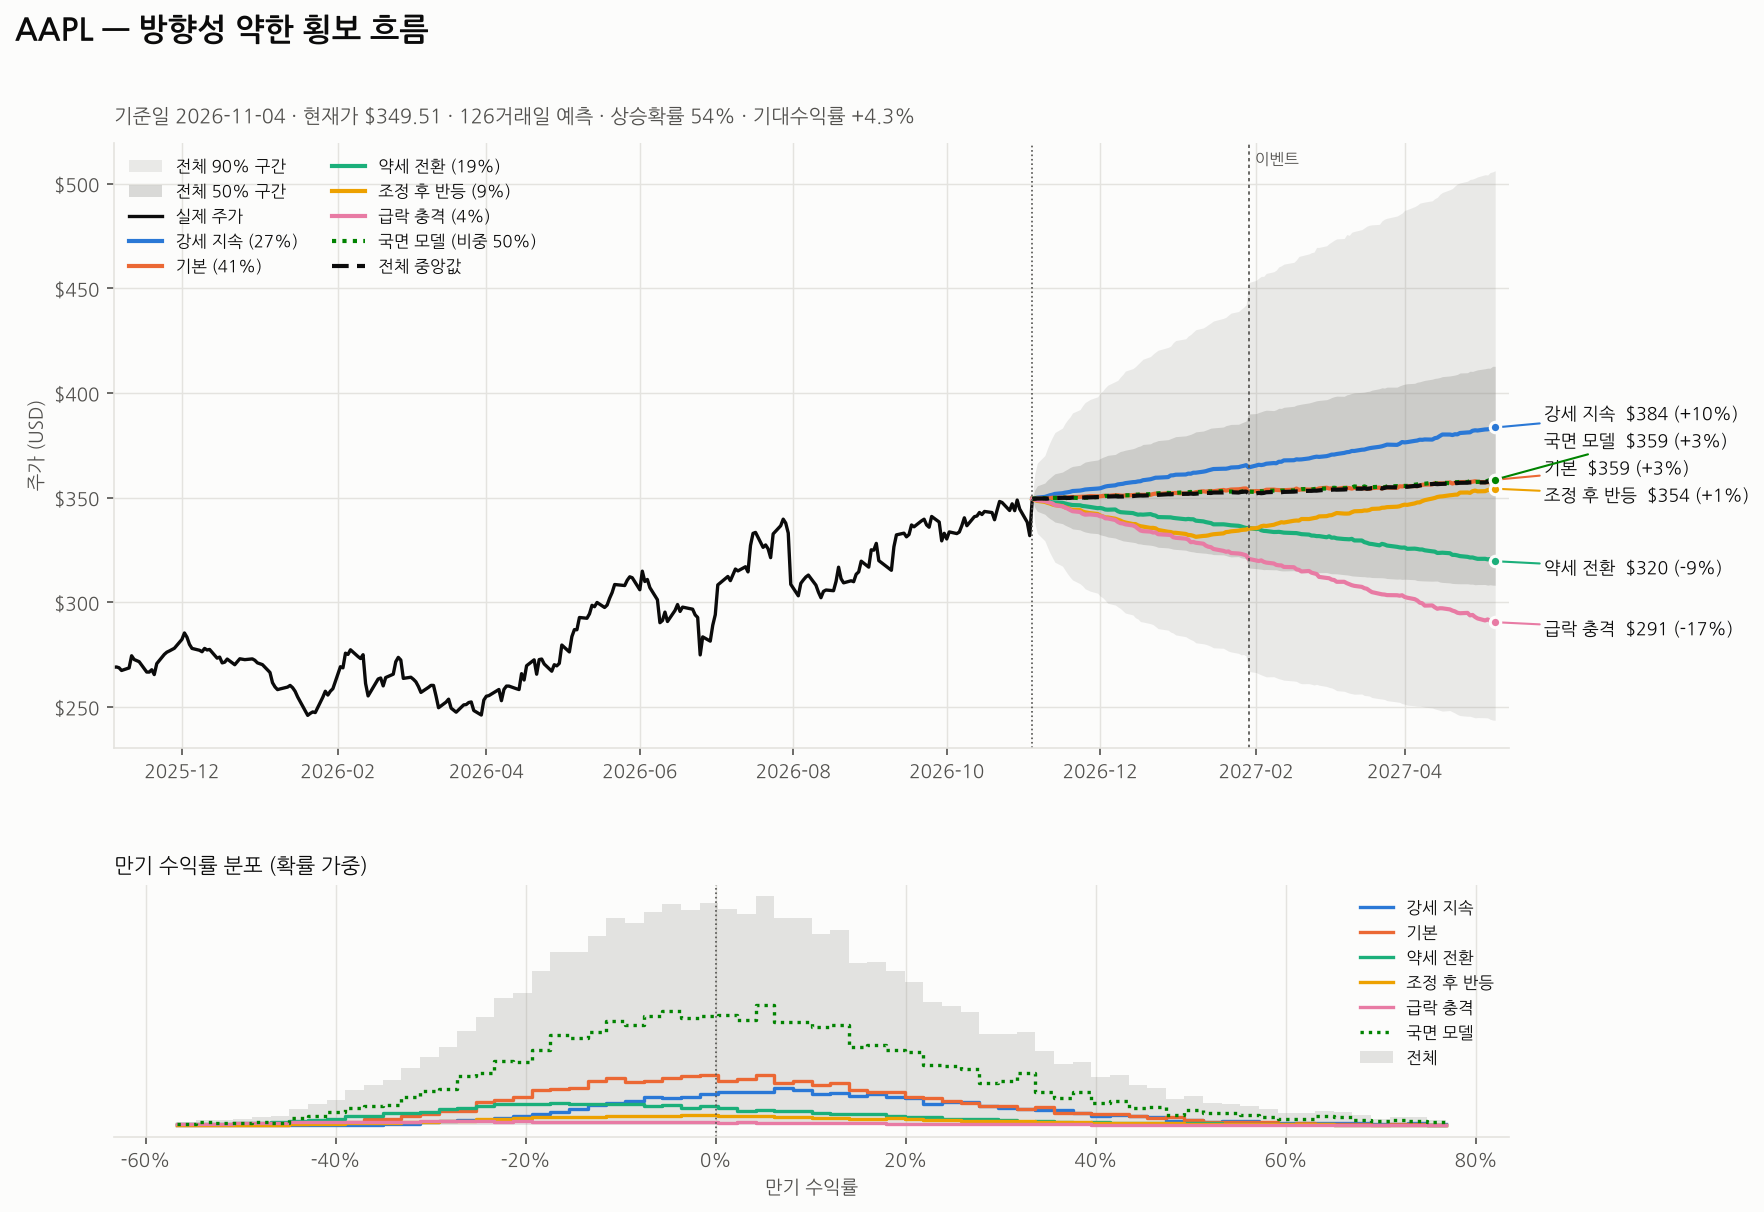
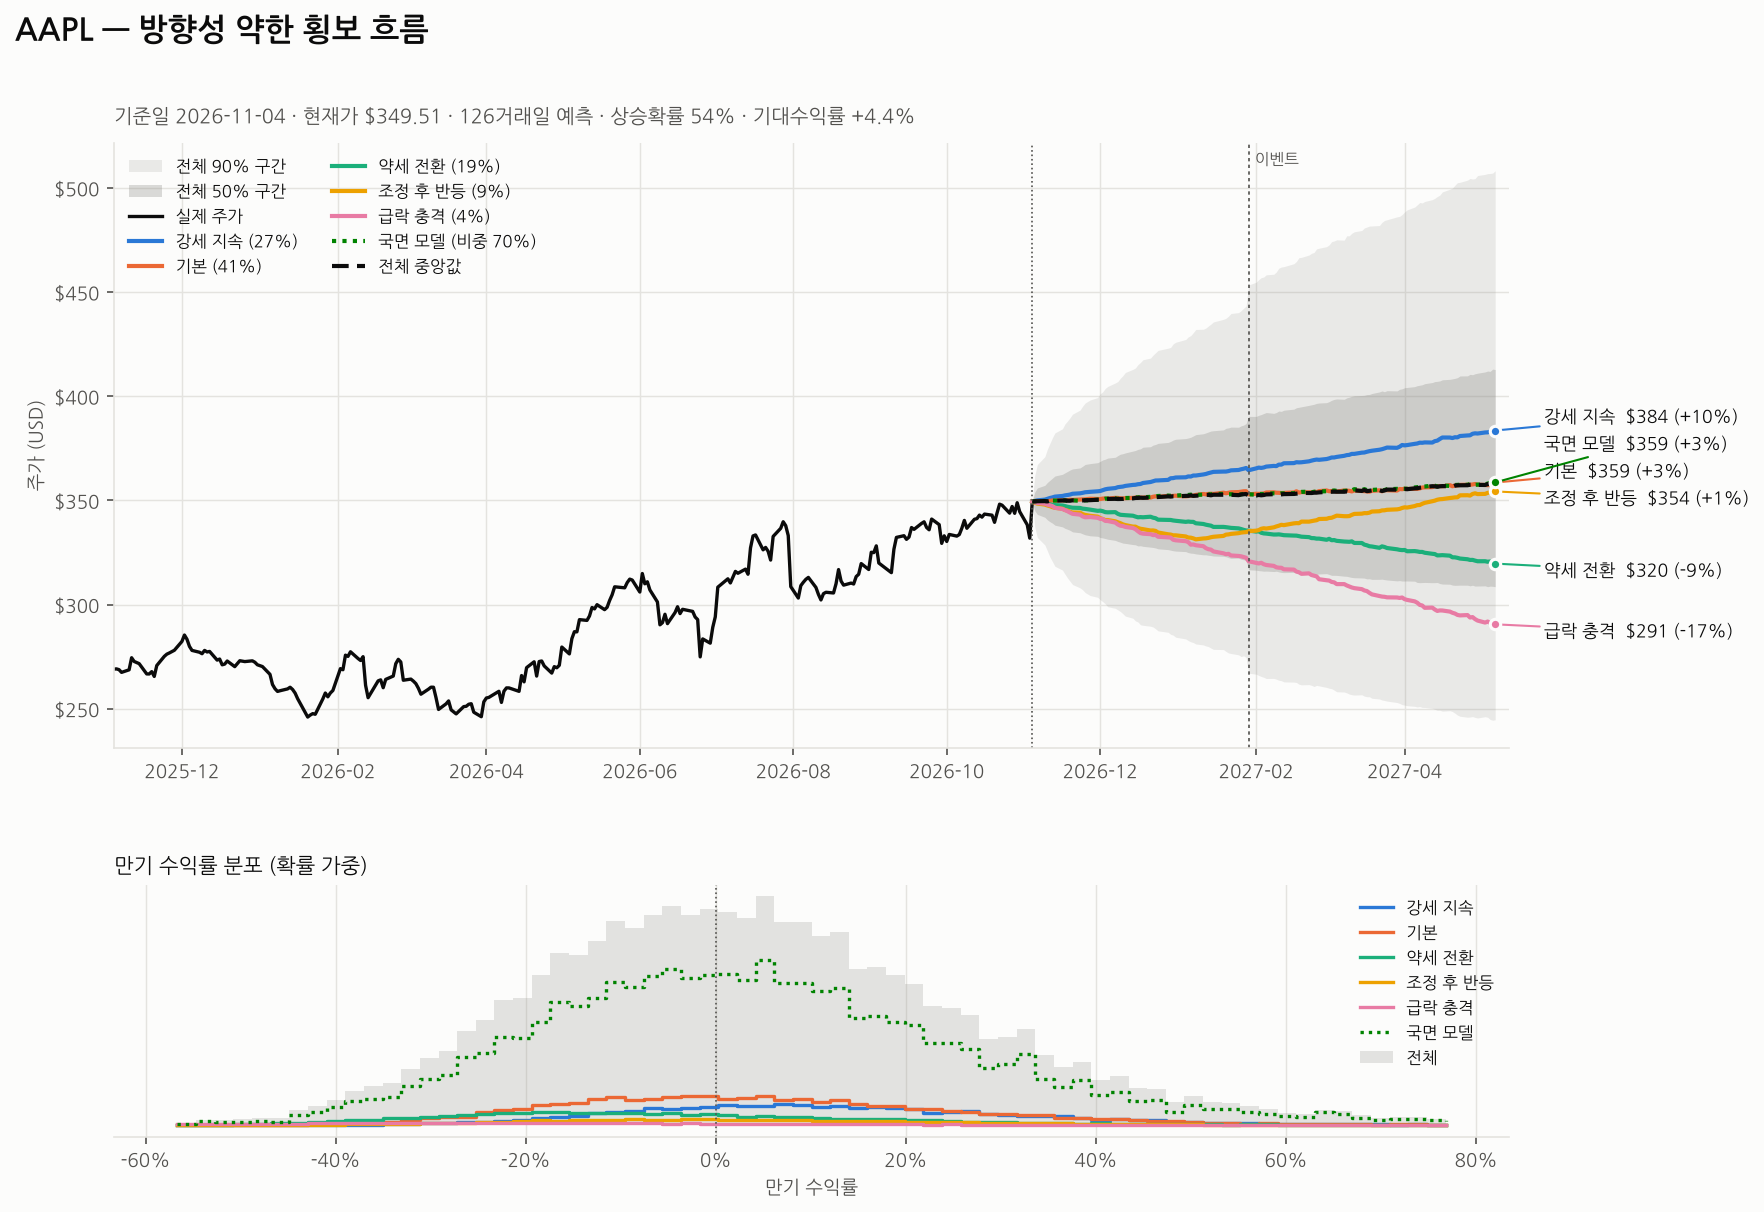
Finalize v0.2 defaults from walk-forward results
- Ensemble default uses 70% regime-model weight: best balance of CRPS
  skill (+5.0% at 3m, +8.3% at 6m vs random walk) and interval
  calibration across 10 tickers
- Keep trend signal off by default (--trend to enable); keep market
  stress tilt on (accuracy-neutral, clearer crash/dip probabilities)
- Fix argparse crash in forecast --help caused by an unescaped percent
- README: full 3m/6m comparison table, refreshed examples and images
- Tests: help rendering for all subcommands (53 total)

Claude-Session: https://claude.ai/code/session_01RAt3s2ssz2wkW3hdGwEmRE

diff --git a/stk/cli.py b/stk/cli.py
@@ -73,7 +73,7 @@ def _add_common(p: argparse.ArgumentParser) -> None:
     p.add_argument("--erp", type=float, default=DEFAULT_ERP, help=f"주식 위험 프리미엄, 기본 {DEFAULT_ERP}")
     p.add_argument(
         "--trend", action=argparse.BooleanOptionalAction, default=DEFAULT_TREND_ON,
-        help=f"추세 신호 사용: 추세 점수로 시나리오 확률 조정 + 기본 기대수익률에 추세 {TREND_WEIGHT_ON:.0%} 반영 "
+        help=f"추세 신호 사용: 추세 점수로 시나리오 확률 조정 + 기본 기대수익률에 추세 {TREND_WEIGHT_ON * 100:.0f}%% 반영 "
              f"(기본 {'켬' if DEFAULT_TREND_ON else '끔'})",
     )
     p.add_argument(

diff --git a/stk/forecast.py b/stk/forecast.py
@@ -48,7 +48,7 @@ CHECKPOINTS = (("1주", 5), ("1개월", 21), ("3개월", 63), ("6개월", 126), 
 MOVE_THRESHOLD = 0.20  # ±20% 도달 확률 계산 기준
 MODELS = ("ensemble", "scenario", "regime")
 DEFAULT_MODEL = "ensemble"
-DEFAULT_REGIME_WEIGHT = 0.5
+DEFAULT_REGIME_WEIGHT = 0.7   # 백테스트(10종목, 3·6개월)에서 정확도·구간 보정이 가장 균형 잡힌 값
 DEFAULT_TREND_ON = False      # 추세 점수로 시나리오 확률 조정 (백테스트상 평균적으로 도움이 안 돼 기본 끔)
 
 

diff --git a/tests/test_cli.py b/tests/test_cli.py
@@ -104,3 +104,11 @@ def test_cli_backtest_compare(tmp_path, prices, capsys):
     assert code == 0
     text = capsys.readouterr().out
     assert "모델 설정 비교" in text and "국면(HMM)" in text
+
+
+@pytest.mark.parametrize("cmd", [[], ["forecast"], ["backtest"], ["scenarios"]])
+def test_help_renders(cmd, capsys):
+    with pytest.raises(SystemExit) as exc:
+        main([*cmd, "--help"])
+    assert exc.value.code == 0
+    assert "usage" in capsys.readouterr().out

diff --git a/stk/backtest.py b/stk/backtest.py
@@ -220,7 +220,7 @@ COMPARE_CONFIGS = {
 }
 
 
-def compare_configs(prices: pd.DataFrame, symbol: str, regime_weight: float = 0.5, **common) -> pd.DataFrame:
+def compare_configs(prices: pd.DataFrame, symbol: str, regime_weight: float = 0.7, **common) -> pd.DataFrame:
     """여러 모델 설정을 같은 조건으로 백테스트해 요약표를 반환합니다."""
     progress = common.pop("progress", False)
     rows = []
